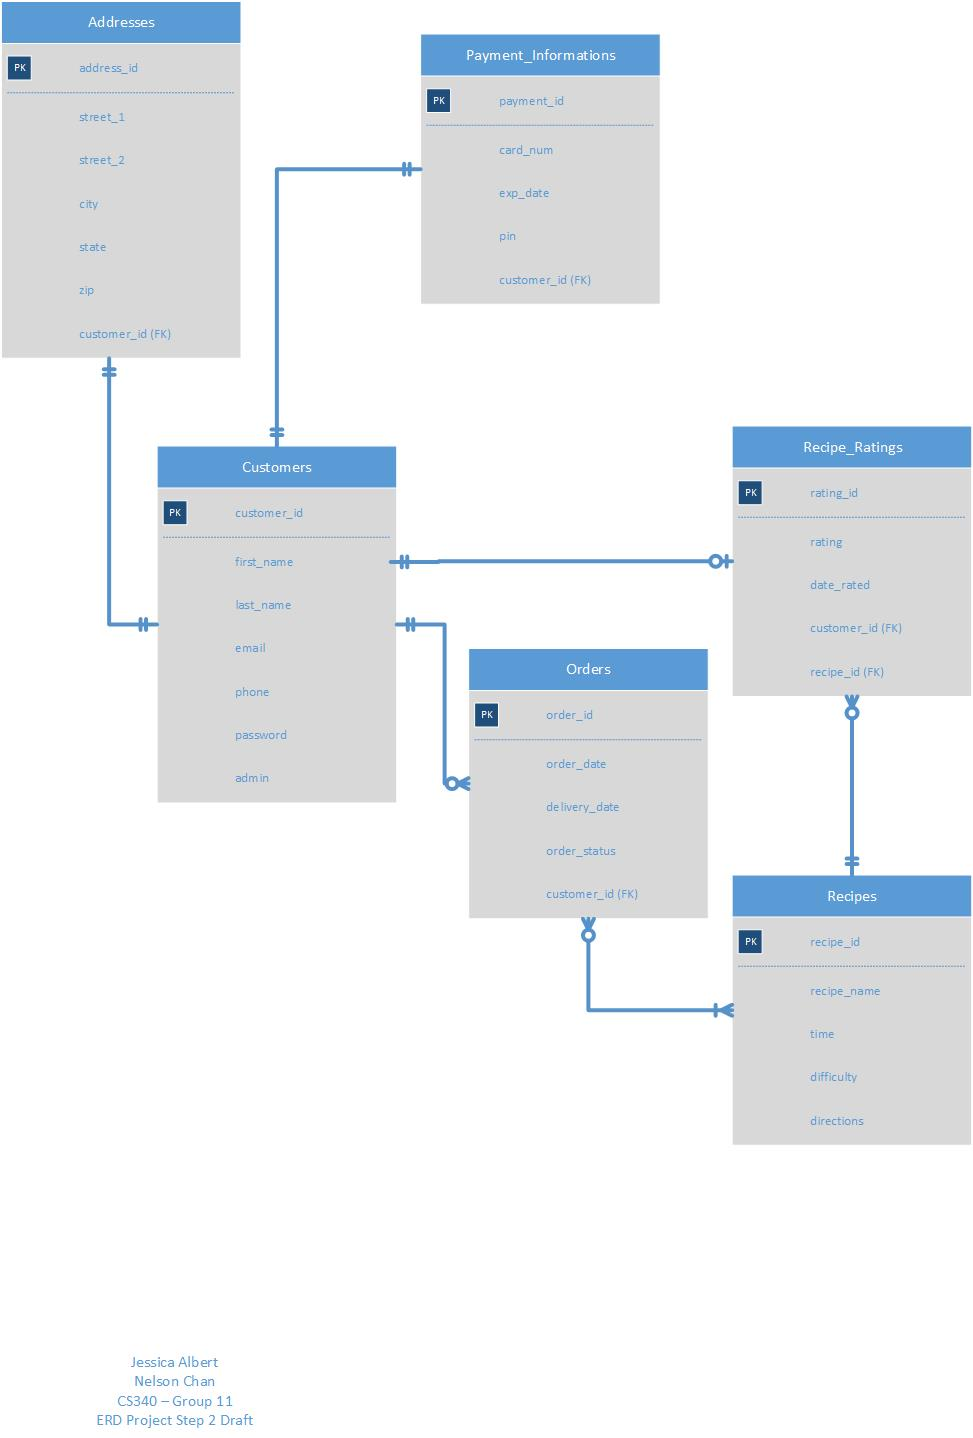
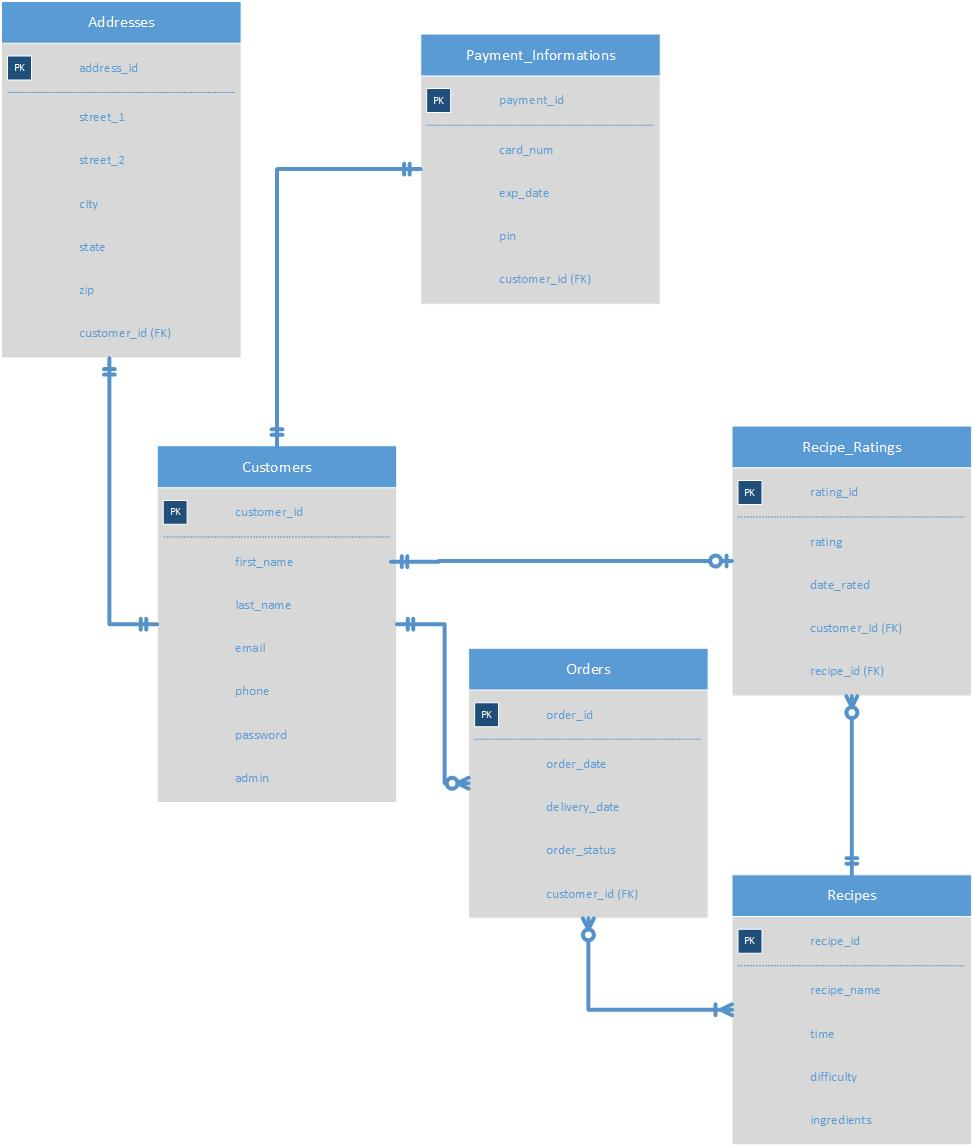
change directions to ingredientsin recipes table

diff --git a/freedom-meals-app/routes/index.js b/freedom-meals-app/routes/index.js
@@ -93,8 +93,8 @@ homepage.post('/add', (req, res) => {
     console.log('inside add recipe route, customer_id = ' + req.session.customer_id);
     console.log(req.body)
     var mysql = req.app.get('mysql');
-    var sql = "INSERT INTO Recipes (recipe_name, time, difficulty, directions) VALUES (?,?,?,?)";
-    var inserts = [req.body.recipeName, req.body.time, req.body.difficulty, req.body.directions];
+    var sql = "INSERT INTO Recipes (recipe_name, time, difficulty, ingredients) VALUES (?,?,?,?)";
+    var inserts = [req.body.recipeName, req.body.time, req.body.difficulty, req.body.ingredients];
     sql = mysql.pool.query(sql, inserts, function (error, results, fields) {
         if (error) {
             console.log(JSON.stringify(error))
@@ -218,17 +218,18 @@ orderpage.post('/add', (req, res) =>{
 					}
 					else
 					{
-						// Clear the cart.
+						/*// Clear the cart.
 						for (var j = req.session.cart.length - 1; j >= 0 ; j--)
 						{
 							req.session.cart.splice(j, 1);
-						}
+						}*/
 						
 						// For some unknown reason when redirecting to orders page gives me errors.
-						res.end();
+						
 					}
 				});
-			}
+            }
+            res.render('/orders');
 		}
 	});
 });
